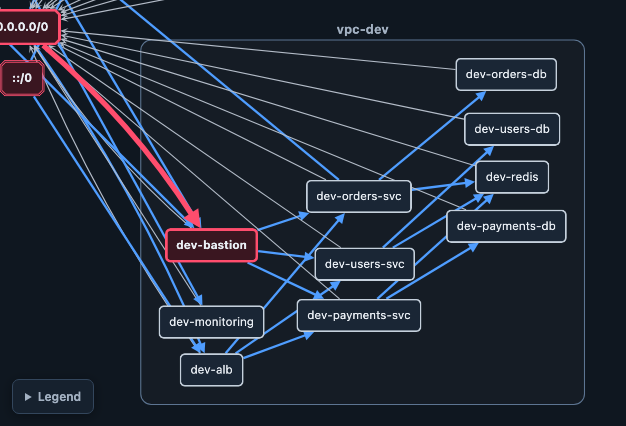
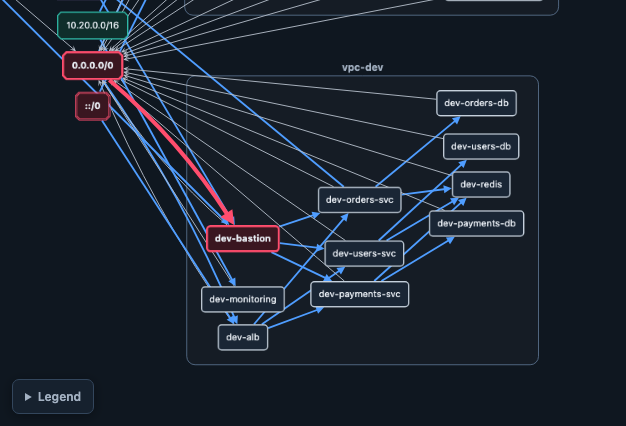
Docs: pad the hero crop so the public peer label shows, use the hero shots in the README

Changed region(s): [[0.0, 0.0, 0.9409, 0.946], [0.4249, 0.4577, 0.4553, 0.4883]]

diff --git a/README.md b/README.md
@@ -12,8 +12,8 @@ security group configuration from the AWS API, or from the JSON written by `aws 
 it as a graph.
 
 <picture>
-  <source media="(prefers-color-scheme: dark)" srcset="https://github.com/anaynayak/aws-security-viz/raw/main/docs/assets/viewer-overview-dark.png">
-  <img alt="HTML viewer: three VPCs, their groups, the external peers and a thick red edge from 0.0.0.0/0 to a bastion group" src="https://github.com/anaynayak/aws-security-viz/raw/main/docs/assets/viewer-overview.png">
+  <source media="(prefers-color-scheme: dark)" srcset="https://github.com/anaynayak/aws-security-viz/raw/main/docs/assets/viewer-hero-dark.png">
+  <img alt="HTML viewer: three VPCs, their groups, the external peers and a thick red edge from 0.0.0.0/0 to a bastion group" src="https://github.com/anaynayak/aws-security-viz/raw/main/docs/assets/viewer-hero.png">
 </picture>
 
 ![Security group graph](https://github.com/anaynayak/aws-security-viz/raw/main/images/sample.png)
